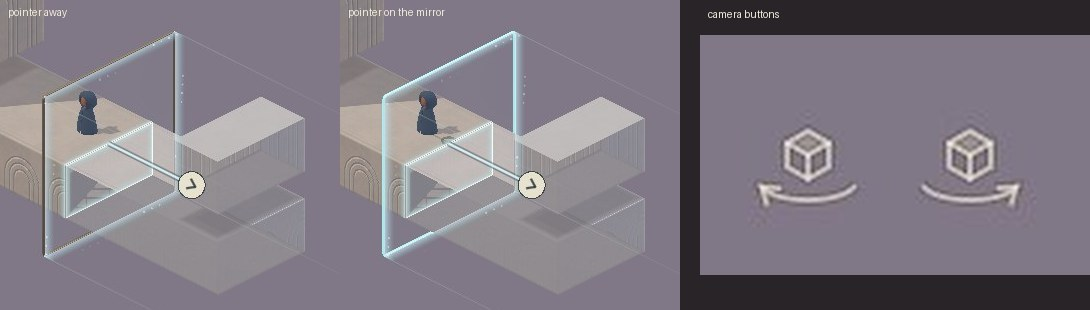
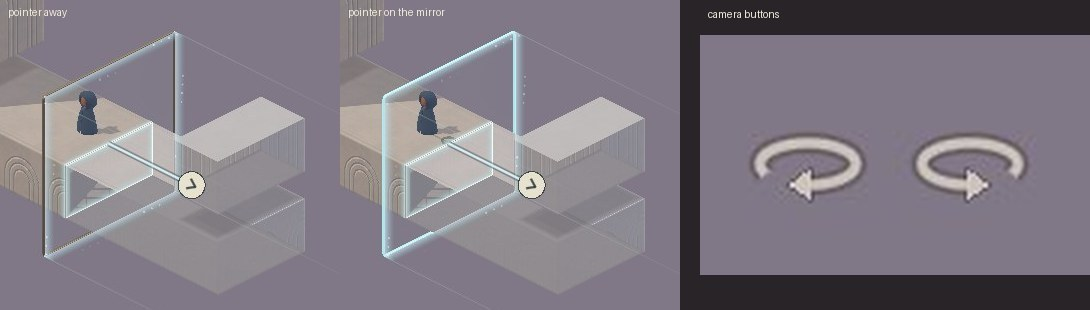
Camera buttons: one bold orbit arrow each
Claude-Session: https://claude.ai/code/session_01HGQhH5acVm4nwB3RdXGx9T

Changed region(s): [[0.6862, 0.4065, 0.967, 0.6677]]

diff --git a/GAME_DESIGN.md b/GAME_DESIGN.md
@@ -23,7 +23,7 @@ This is the current design record. Agreed rules are separate from later mileston
 - Procedural 3D geometry remains available for prototypes. Character studies use editable Blender assets. All agents must follow the Blender workflow in `AGENTS.md`: edit the approved source in a persistent session, use Blender Lab inspection tools first, make small native edits or focused scripts, and review key poses before completing animation. Keep scripts for export and validation; do not rebuild the whole character for local visual corrections.
 - Level data is JSON and separate from scenes.
 - Touch targets are at least 48 logical units. The agreed direction is an immersive world with minimal gameplay controls. A top-right gear will show or hide debug panels; panels will be hidden by default. The world fills the window. Gameplay uses direct gestures and small contextual actions; diagnostic controls stay in the gear panel.
-- The orthographic camera uses four views at 45°, 135°, 225°, and 315°, with 30° downward elevation. Empty-space swipes turn it in quarter steps; with the direct controls a mouse drag on empty space does the same, and two dim bottom-left buttons, each a small block over a turning arc, and Q/E also turn it on desktop. Each view change blends camera angle, scale, and framing about one fixed pivot for 0.4 seconds. A transient crop at the outer edge is accepted. Rotate-ring fitting runs when Rotate opens, after resize, and after a camera-view change; the camera stays fixed during a rotation gesture. Window resizing cancels the active gesture and starts one blended framing update.
+- The orthographic camera uses four views at 45°, 135°, 225°, and 315°, with 30° downward elevation. Empty-space swipes turn it in quarter steps; with the direct controls a mouse drag on empty space does the same, and two dim bottom-left buttons, each a bold flattened orbit arrow, and Q/E also turn it on desktop. Each view change blends camera angle, scale, and framing about one fixed pivot for 0.4 seconds. A transient crop at the outer edge is accepted. Rotate-ring fitting runs when Rotate opens, after resize, and after a camera-view change; the camera stays fixed during a rotation gesture. Window resizing cancels the active gesture and starts one blended framing update.
 
 ## Agreed world rules
 

diff --git a/docs/playtest-fixes.md b/docs/playtest-fixes.md
@@ -124,9 +124,9 @@ proves simpler.
    stage 1's file). Pictures:
    [grab and camera buttons](playtests/2026-10-fixes/grab-hover-and-camera-icons.jpg),
    [phone framing](playtests/2026-10-fixes/phone-framing.jpg).
-   - The camera buttons are drawn as a small block over a turning arc, with
-     the arrowhead on the side of the turn, not as the ↶ ↷ glyphs. Their
-     tooltips say "Turn the view left (Q)" and "right (E)".
+   - The camera buttons are drawn as one bold, flattened orbit arrow with
+     its head at the front, pointing the way of the turn, not as the ↶ ↷
+     glyphs. Tooltips: "Turn left (Q)", "Turn right (E)".
    - The mirror takes a press anywhere on its panel, through a block that
      passes through the frame, and up to a quarter unit past the glass. A tap
      there still walks. On desktop, the pointer on the mirror shows a move
